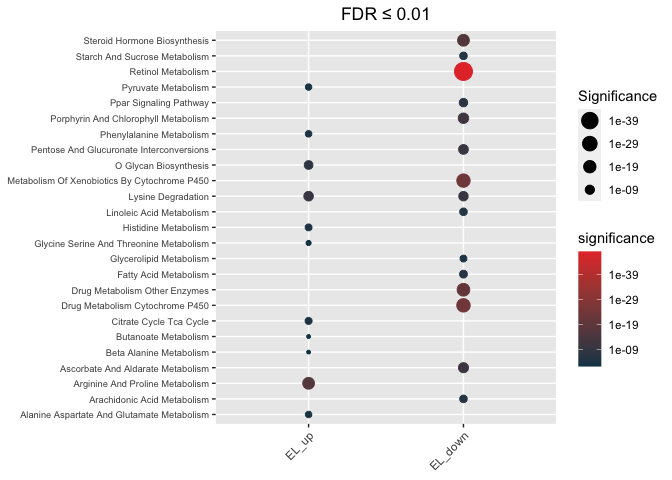
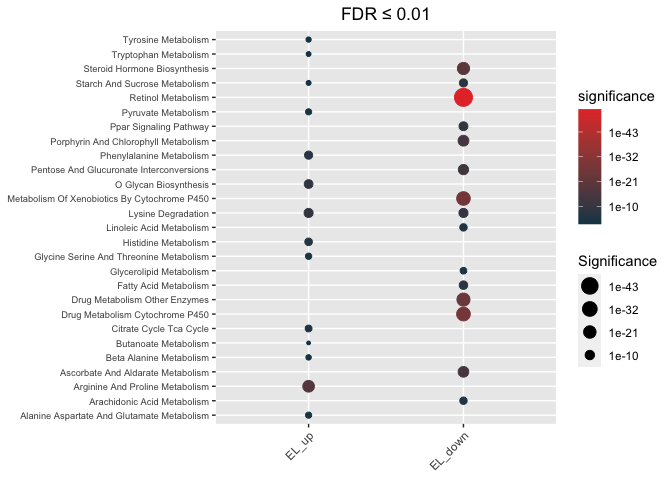
updated README file

diff --git a/README.md b/README.md
@@ -7,7 +7,6 @@
 
 ``` r
 library(hypeR.GEM)
-library(hypeR)
 ```
 
 ``` r
@@ -30,66 +29,28 @@ str(EL_signature)
     #>   ..$ cent.p.value : num [1:96] 7.73e-08 1.35e-07 1.95e-07 6.28e-07 1.07e-06 ...
     #>   ..$ cent.q.value : num [1:96] 1.77e-06 2.91e-06 3.51e-06 9.31e-06 1.40e-05 ...
 
+## Map metabolite signtures to associated genes
+
+-   `signatures` must be a named list
+-   `species = c("Human", "Mouse", "Rat", "Zebrafish", "Worm", "Other")`
+-   `ensemble_id`: for current version, if `species != 'Human`, use
+    `ensemble_id = FALSE`
+-   `reference_key = 'refmet_name` by default
+-   `background` is used to compute gene-specific p-values, if
+    `background = NULL`, then background = \# of metabolites associated
+    with non-exchange reactions
+
 ``` r
 hypeR_GEM_obj <- hypeR.GEM::signature2gene(signatures = EL_signature,
                                            species = "Human",
-                                          ensemble_id = TRUE,
-                                          reference_key = 'refmet_name')
-str(hypeR_GEM_obj)
+                                           ensemble_id = TRUE,
+                                           reference_key = 'refmet_name',
+                                           background = NULL)
 ```
 
-    #> List of 2
-    #>  $ mapped_metabolite_signatures:List of 2
-    #>   ..$ EL_up  :'data.frame':  254 obs. of  9 variables:
-    #>   .. ..$ name            : chr [1:254] "MAM00199c" "MAM00205c" "MAM00205g" "MAM00205l" ...
-    #>   .. ..$ fullname        : chr [1:254] "[protein]-L-citrulline" "[protein]-L-serine" "[protein]-L-serine" "[protein]-L-serine" ...
-    #>   .. ..$ refmet_name     : chr [1:254] "Citrulline" "Serine" "Serine" "Serine" ...
-    #>   .. ..$ gene_association: num [1:254] 5 2 21 3 2 30 26 5 2 3 ...
-    #>   .. ..$ compartment     : chr [1:254] "c" "c" "g" "l" ...
-    #>   .. ..$ formula         : chr [1:254] "C6H13N3O3" "C3H7NO3" "C3H7NO3" "C3H7NO3" ...
-    #>   .. ..$ super_class     : chr [1:254] "Organic acids" "Organic acids" "Organic acids" "Organic acids" ...
-    #>   .. ..$ main_class      : chr [1:254] "Amino acids and peptides" "Amino acids and peptides" "Amino acids and peptides" "Amino acids and peptides" ...
-    #>   .. ..$ sub_class       : chr [1:254] "Amino acids" "Amino acids" "Amino acids" "Amino acids" ...
-    #>   ..$ EL_down:'data.frame':  74 obs. of  9 variables:
-    #>   .. ..$ name            : chr [1:74] "MAM00003c" "MAM00003l" "MAM00003r" "MAM00003e" ...
-    #>   .. ..$ fullname        : chr [1:74] "(10Z)-heptadecenoic acid" "(10Z)-heptadecenoic acid" "(10Z)-heptadecenoic acid" "(10Z)-heptadecenoic acid" ...
-    #>   .. ..$ refmet_name     : chr [1:74] "10Z-Heptadecenoic acid" "10Z-Heptadecenoic acid" "10Z-Heptadecenoic acid" "10Z-Heptadecenoic acid" ...
-    #>   .. ..$ gene_association: num [1:74] 30 2 11 15 25 4 2 14 1 1 ...
-    #>   .. ..$ compartment     : chr [1:74] "c" "l" "r" "e" ...
-    #>   .. ..$ formula         : chr [1:74] "C17H32O2" "C17H32O2" "C17H32O2" "C17H32O2" ...
-    #>   .. ..$ super_class     : chr [1:74] "Fatty Acyls" "Fatty Acyls" "Fatty Acyls" "Fatty Acyls" ...
-    #>   .. ..$ main_class      : chr [1:74] "Fatty acids" "Fatty acids" "Fatty acids" "Fatty acids" ...
-    #>   .. ..$ sub_class       : chr [1:74] "Unsaturated FA" "Unsaturated FA" "Unsaturated FA" "Unsaturated FA" ...
-    #>  $ gene_tables                 :List of 2
-    #>   ..$ EL_up  :'data.frame':  450 obs. of  12 variables:
-    #>   .. ..$ name                  : chr [1:450] "ENSG00000000419" "ENSG00000002726" "ENSG00000003989" "ENSG00000004864" ...
-    #>   .. ..$ symbol                : chr [1:450] "DPM1" "AOC1" "SLC7A2" "SLC25A13" ...
-    #>   .. ..$ associated_reactions  : num [1:450] 2 32 25 3 2 8 7 29 3 4 ...
-    #>   .. ..$ total_association     : num [1:450] 677 57 46 8 8 20 14 50 9 6 ...
-    #>   .. ..$ signature_association : num [1:450] 16 1 8 2 2 4 2 6 1 2 ...
-    #>   .. ..$ signature_size        : int [1:450] 254 254 254 254 254 254 254 254 254 254 ...
-    #>   .. ..$ background            : int [1:450] 6700 6700 6700 6700 6700 6700 6700 6700 6700 6700 ...
-    #>   .. ..$ p_value               : num [1:450] 9.79e-01 6.43e-01 4.52e-05 2.62e-03 2.62e-03 ...
-    #>   .. ..$ fdr                   : num [1:450] 0.990058 0.669367 0.000496 0.009814 0.009814 ...
-    #>   .. ..$ one_minus_p_value     : num [1:450] 0.0209 0.3574 1 0.9974 0.9974 ...
-    #>   .. ..$ one_minus_fdr         : num [1:450] 0.00994 0.33063 0.9995 0.99019 0.99019 ...
-    #>   .. ..$ associated_metabolites: chr [1:450] "Citrulline;Sorbitol;N-Formylmethionine;Glycolithocholic acid;N-Acetylalanine;Taurodeoxycholic acid;Trimethylami"| __truncated__ "N-Acetylputrescine" "Citrulline;Phenylalanine;Proline;Serine" "Aspartic acid" ...
-    #>   ..$ EL_down:'data.frame':  223 obs. of  12 variables:
-    #>   .. ..$ name                  : chr [1:223] "ENSG00000000419" "ENSG00000003137" "ENSG00000005483" "ENSG00000006757" ...
-    #>   .. ..$ symbol                : chr [1:223] "DPM1" "CYP26B1" "KMT2E" "PNPLA4" ...
-    #>   .. ..$ associated_reactions  : num [1:223] 2 11 7 9 2 28 86 11 3 7 ...
-    #>   .. ..$ total_association     : num [1:223] 677 29 14 22 6 64 136 26 11 14 ...
-    #>   .. ..$ signature_association : num [1:223] 7 2 1 1 1 3 4 2 3 1 ...
-    #>   .. ..$ signature_size        : int [1:223] 74 74 74 74 74 74 74 74 74 74 ...
-    #>   .. ..$ background            : int [1:223] 6700 6700 6700 6700 6700 6700 6700 6700 6700 6700 ...
-    #>   .. ..$ p_value               : num [1:223] 0.47606 0.00385 0.01005 0.0241 0.00175 ...
-    #>   .. ..$ fdr                   : num [1:223] 0.48255 0.01046 0.01648 0.03125 0.00584 ...
-    #>   .. ..$ one_minus_p_value     : num [1:223] 0.524 0.996 0.99 0.976 0.998 ...
-    #>   .. ..$ one_minus_fdr         : num [1:223] 0.517 0.99 0.984 0.969 0.994 ...
-    #>   .. ..$ associated_metabolites: chr [1:223] "Pregnenolone sulfate;Linoleic acid;MG 20:4;5alpha-Androstane-3alpha-ol-17-one sulfate" "Retinol" "N(6)-Methyllysine" "Retinol" ...
-
 ``` r
-kegg <- hypeR::msigdb_gsets(species="Homo sapiens", category="C2", subcategory = "CP:KEGG", clean = TRUE)
+library(hypeR)
+kegg <- msigdb_gsets(species="Homo sapiens", category="C2", subcategory = "CP:KEGG", clean = TRUE)
 print(kegg)
 ```
 
@@ -112,7 +73,9 @@ kegg_unweighted <- hypeR.GEM::enrichment(hypeR_GEM_obj,
                                          method='unweighted',
                                          weights = 'one_minus_p_value',
                                          background=3068)
+```
 
+``` r
 hypeR.GEM::enrichment_plot(kegg_unweighted,
                            top=40,
                            abrv=50,
@@ -123,7 +86,7 @@ hypeR.GEM::enrichment_plot(kegg_unweighted,
   ggplot2::theme(axis.text.y = element_text(size = 7))
 ```
 
-![](README_files/figure-gfm/unnamed-chunk-6-1.png)<!-- -->
+![](README_files/figure-gfm/unnamed-chunk-7-1.png)<!-- -->
 
 ### KEGG (weighted)
 
@@ -134,7 +97,9 @@ kegg_weighted <- hypeR.GEM::enrichment(hypeR_GEM_obj,
                                          method='weighted',
                                          weights = 'one_minus_p_value',
                                          background=3068)
+```
 
+``` r
 hypeR.GEM::enrichment_plot(kegg_weighted,
                            top=40,
                            abrv=50,
@@ -145,4 +110,4 @@ hypeR.GEM::enrichment_plot(kegg_weighted,
   ggplot2::theme(axis.text.y = element_text(size = 7))
 ```
 
-![](README_files/figure-gfm/unnamed-chunk-7-1.png)<!-- -->
+![](README_files/figure-gfm/unnamed-chunk-9-1.png)<!-- -->
